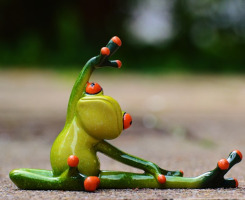
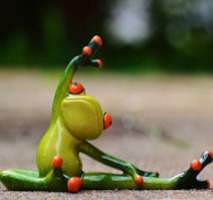
finalisation couleur image

Changed region(s): [[0.0, 0.18, 1.0, 1.0], [0.507, 0.0, 0.5915, 0.18], [0.1408, 0.66, 0.169, 0.69]]

diff --git a/index.html b/index.html
@@ -57,13 +57,13 @@
 						<div class="pages row d-flex justify-content-center">
 
 							<a class="col-sm-12 col-lg-3 images" href="#">
-								<img src="images/posture.jpg" class="rounded-circle mx-auto d-block voile" alt="image 1">
+								<img src="images/posture.jpg" class=" rounded-circle mx-auto d-block voile posture" alt="image 1">
 							</a>
 							<a class="col-sm-12 col-lg-3 images" href="#">
-								<img src="images/activite.jpg" class="rounded-circle mx-auto d-block voile" alt="image 1">
+								<img src="images/activite.jpg" class="rounded-circle mx-auto d-block voile activity" alt="image 1">
 							</a>
 							<a class="col-sm-12 col-lg-3 images" href="#">
-								<img src="images/temoignage.jpg" class="rounded-circle mx-auto d-block voile" alt="image 1">
+								<img src="images/temoignage.jpg" class="rounded-circle mx-auto d-block voile testimony" alt="image 1">
 							</a>
 						</div>
 					</div>

diff --git a/style.css b/style.css
@@ -38,6 +38,20 @@ html, body{
 .more{
 	margin-right: 10em;
 }
+.badge{
+		background-color: #061539;
+		z-index: 4;
+}
+/*couleur des thématiques*/
+.posture{
+	border: 0.5rem solid #db3a06 ;
+}
+.activity{
+	border: 0.5rem solid red ;
+}
+.testimony{
+	border: 0.5rem solid blue ;
+}
 
 /*  ---style CSS why ---*/
 .why{
@@ -101,6 +115,21 @@ html, body{
 }
 
 @media only screen and (max-width: 320px) {
+	html, body {
+		width: auto;
+		height: auto;
+
+	}
+	.pages{
+		background-color: #FFFFFF;
+	}
+	.first_page h1{
+		padding-top: 1em;
+	}
+	.bg{
+		height: auto;
+	}
+
 	.card-body .imgView {float: none;text-align: center;}
 }
 
